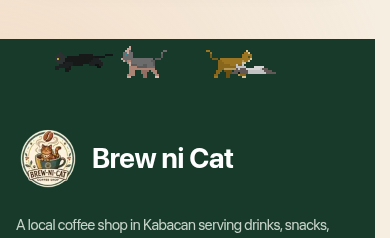
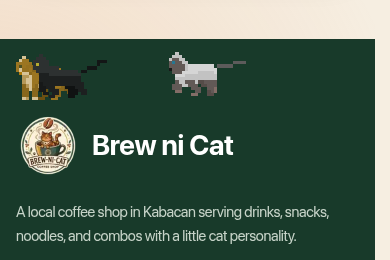
feat(cats): bigger cats that rest more, filling the strip down to the footer text (FR-099)

diff --git a/src/lib/cats/cats.ts b/src/lib/cats/cats.ts
@@ -50,21 +50,21 @@ const clamp01 = (r: number) => Math.min(Math.max(r, 0), 0.999_999);
 /** The most cats in the strip at once; the six coats repeat. */
 export const MAX_CATS = 16;
 
-/** One cat for about every 100 pixels of width: 4 on a phone, 14 on a desktop. */
+/** One cat for about every 120 pixels of width: 3 on a phone, 12 on a desktop. */
 export function catCount(width: number): number {
-  return Math.min(MAX_CATS, Math.max(4, Math.round(width / 100)));
+  return Math.min(MAX_CATS, Math.max(3, Math.round(width / 120)));
 }
 
 export type CatRest = Readonly<{ action: CatAction; ms: number }>;
 
 const RESTS: readonly (readonly [CatAction, number, number])[] = [
-  ["idle", 3_000, 6_000],
-  ["sitting", 4_000, 9_000],
-  ["licking", 2_700, 4_500],
-  ["meow", 1_400, 1_400],
+  ["idle", 4_000, 8_000],
+  ["sitting", 6_000, 14_000],
+  ["licking", 3_600, 7_200],
+  ["meow", 1_400, 2_800],
   ["stretching", 1_700, 1_700],
   ["laying", 1_100, 1_100],
-  ["itch", 1_200, 2_000],
+  ["itch", 1_200, 2_400],
 ];
 
 /** What a cat does after a walk, and for how long, from two random numbers. */
@@ -89,8 +89,9 @@ export function afterRest(action: CatAction, length: number): CatRest | null {
 }
 
 /**
- * Where the next walk ends: somewhere in the strip at least two cat sizes
- * away, so every walk is worth watching. `size` is the cat's frame in pixels.
+ * Where the next walk ends: one to three cat sizes away, left or right, and
+ * inside the strip. Short walks leave the cats more time to sit, wash, meow
+ * or nap. `size` is the cat's frame in pixels.
  */
 export function nextTarget(
   random: number,
@@ -100,10 +101,10 @@ export function nextTarget(
 ): number {
   const min = -0.2 * size;
   const max = Math.max(min, width - 0.8 * size);
-  let target = min + clamp01(random) * (max - min);
-  if (Math.abs(target - x) < 2 * size) {
-    target = x + (target >= x ? 2 : -2) * size;
-    if (target > max || target < min) target = x - (target - x);
-  }
+  const r = clamp01(random);
+  const dir = r < 0.5 ? -1 : 1;
+  const steps = 1 + (r < 0.5 ? r * 2 : (r - 0.5) * 2) * 2;
+  let target = x + dir * steps * size;
+  if (target > max || target < min) target = x - dir * steps * size;
   return Math.min(max, Math.max(min, target));
 }

diff --git a/tests/unit/cat-characters.test.tsx b/tests/unit/cat-characters.test.tsx
@@ -59,10 +59,10 @@ afterEach(() => {
 describe("cat characters (FR-099)", () => {
   // Update 2026-11-10: the drawn poster cats were replaced by the six pixel
   // cats of the CC0 "Pet Cats Pack"; this case now covers their behavior.
-  it("TC-P9-001 six pixel cat coats, 4 cats on a phone and 14 on a desktop, rest in turn and nap after lying down", () => {
+  it("TC-P9-001 six pixel cat coats, 3 cats on a phone and 12 on a desktop, rest in turn and nap after lying down", () => {
     expect(PIXEL_CATS).toHaveLength(6);
-    expect(catCount(390)).toBe(4);
-    expect(catCount(1440)).toBe(14);
+    expect(catCount(390)).toBe(3);
+    expect(catCount(1440)).toBe(12);
     expect(catCount(4000)).toBe(16);
     expect(catSheetUrl("cat-2", "walk")).toBe("/cats/cat-2/walk.png");
     expect(CAT_SHEETS.walk.frames).toBe(8);
@@ -74,10 +74,11 @@ describe("cat characters (FR-099)", () => {
     expect(nextRest(0.999, 0, true).action).toBe("itch");
     expect(afterRest("laying", 0)?.action).toBe("sleeping");
     expect(afterRest("idle", 0)).toBeNull();
-    // every walk goes at least two cat sizes and stays in the strip
+    // every walk goes one to three cat sizes and stays in the strip
     for (const r of [0, 0.3, 0.5, 0.99]) {
       const target = nextTarget(r, 500, 1440, 150);
-      expect(Math.abs(target - 500)).toBeGreaterThanOrEqual(300);
+      expect(Math.abs(target - 500)).toBeGreaterThanOrEqual(150);
+      expect(Math.abs(target - 500)).toBeLessThanOrEqual(450);
       expect(target).toBeGreaterThanOrEqual(-30);
       expect(target).toBeLessThanOrEqual(1440 - 120);
     }

diff --git a/tests/e2e/cats.spec.ts b/tests/e2e/cats.spec.ts
@@ -18,6 +18,12 @@ async function overlapsWithStrip(page: Page): Promise<string[]> {
       "a, button, input, select, textarea, p, h1, h2, h3, li, label",
     )) {
       if (strip.contains(el)) continue;
+      // skip hidden layers such as the page-transition curtain
+      if (el.closest('[aria-hidden="true"]')) continue;
+      if (
+        !el.checkVisibility({ opacityProperty: true, visibilityProperty: true })
+      )
+        continue;
       const r = el.getBoundingClientRect();
       if (r.width === 0 || r.height === 0) continue;
       const overlap =
@@ -52,7 +58,7 @@ for (const size of [
     // Update 2026-11-10: the pixel cats (CC0 "Pet Cats Pack") wander on
     // their own; within a few seconds at least one has moved or changed
     // what it is doing. Their frames are a CSS animation in real time.
-    const count = size.name === "phone" ? 4 : 14;
+    const count = size.name === "phone" ? 3 : 12;
     const cats = strip.locator(".pixel-cat:not([hidden])");
     await expect(cats).toHaveCount(count);
     const sheet = await page.request.get("/cats/cat-1/walk.png");
@@ -100,7 +106,7 @@ test("TC-P9-006 — with reduced motion the cats sit still", async ({ page }) =>
   const strip = page.getByTestId("cat-strip");
   await strip.scrollIntoViewIfNeeded();
   const cats = strip.locator(".pixel-cat:not([hidden])");
-  await expect(cats).toHaveCount(14);
+  await expect(cats).toHaveCount(12);
   const state = () =>
     cats.evaluateAll((nodes) =>
       nodes

diff --git a/src/app/globals.css b/src/app/globals.css
@@ -2347,7 +2347,7 @@ html[data-motion="on"]:not([data-motion-live])
    taps, so nothing under it is ever covered. Each sheet is one row of square
    frames; the cat stands on row 32 of 50, so the strip shows rows 14 to 32. */
 .cat-strip {
-  --cat-size: 100px;
+  --cat-size: 160px;
   position: relative;
   height: calc(var(--cat-size) * 0.38);
   overflow: hidden;
@@ -2356,7 +2356,7 @@ html[data-motion="on"]:not([data-motion-live])
 }
 @media (min-width: 640px) {
   .cat-strip {
-    --cat-size: 150px;
+    --cat-size: 260px;
   }
 }
 .pixel-cat {

diff --git a/src/components/layout/site-footer.tsx b/src/components/layout/site-footer.tsx
@@ -47,7 +47,7 @@ export function SiteFooter({ content }: SiteFooterProps) {
       <CatStrip />
       <Container
         data-rise-group=""
-        className="grid gap-10 py-12 sm:grid-cols-2 lg:grid-cols-[1.25fr_0.7fr_1.1fr_0.8fr] lg:gap-12 lg:py-16"
+        className="grid gap-10 pt-3 pb-12 sm:grid-cols-2 lg:grid-cols-[1.25fr_0.7fr_1.1fr_0.8fr] lg:gap-12 lg:pt-4 lg:pb-16"
       >
         <div>
           <Link

diff --git a/docs/functional-requirements.md b/docs/functional-requirements.md
@@ -225,7 +225,7 @@ FR-100 to FR-110 were added after FR-099 and extend §9 (FR-058 to FR-064). On 2
 | Existing POS contract/source of truth | FR-071–FR-081 | Phase 2 inspected catalog source structures only; full synchronization contract, mutation authority, and Phase 6 approval remain pending. |
 | Daily cash count at closing | FR-097 | **TODO: Confirm with Brew ni Cat owner.** Whether staff count the drawer at every closing, and who may correct a saved count. Superseded on 2026-11-05: FR-097 is not planned, so these questions no longer need an answer. |
 | Ratings and reviews | FR-098 | The owner asked for ratings and reviews on the website on 2026-10-30. **TODO: Confirm with Brew ni Cat owner.** Still to confirm: reviews of the whole shop or of each item; whether only signed-in customers may post; whether the owner approves a review before it shows; and whether the owner can reply. |
-| Cat characters | FR-099 | The owner asked for cat characters on the website on 2026-10-30. He will take photos of the shop's cats, and they will be edited into cutouts. Waiting on the photos. **TODO: Confirm with Brew ni Cat owner.** Which pages show them. Update 2026-11-10: built from the shop poster (Kasper, Latte, Luna, Kulas) as drawn cats with a walk cycle, in an empty strip at the top of the footer on every page. Update 2026-11-10: the drawn cats did not look real enough, so they were replaced by the six pixel cats of the CC0 "Pet Cats Pack" (`public/cats`, license in `public/cats/LICENSE.txt`). Four to sixteen cats (the six coats repeat) wander the same footer strip: they walk or run, then sit, wash, meow, stretch, scratch or lie down for a nap. With reduced motion they sit still. |
+| Cat characters | FR-099 | The owner asked for cat characters on the website on 2026-10-30. He will take photos of the shop's cats, and they will be edited into cutouts. Waiting on the photos. **TODO: Confirm with Brew ni Cat owner.** Which pages show them. Update 2026-11-10: built from the shop poster (Kasper, Latte, Luna, Kulas) as drawn cats with a walk cycle, in an empty strip at the top of the footer on every page. Update 2026-11-10: the drawn cats did not look real enough, so they were replaced by the six pixel cats of the CC0 "Pet Cats Pack" (`public/cats`, license in `public/cats/LICENSE.txt`). Three to sixteen large cats (the six coats repeat) wander the same footer strip: they walk or run, then sit, wash, meow, stretch, scratch or lie down for a nap. With reduced motion they sit still. |
 | Messenger ordering rules | FR-100–FR-110 | **TODO: Confirm with Brew ni Cat owner.** The team built ordering and order status inside Messenger on 2026-11-10 (ADR-029). Still to decide: whether the assistant should refuse or only warn about orders outside the shop hours, and a switch for closure days; whether a status change should be pushed to the chat by itself (Meta limits this to 24 hours after the customer's last message); and whether Messenger orders should move to a table of their own, which needs a POS update. |
 
 ## 13. Traceability rule

diff --git a/docs/test-cases.md b/docs/test-cases.md
@@ -1197,11 +1197,11 @@ Update 2026-11-10: the drawn poster cats were replaced by the six pixel cats of 
 
 | ID | Requirement | Area | Updated check | Expected result |
 |---|---|---|---|---|
-| TC-P9-001 | FR-099 | `src/lib/cats/cats.ts` | `catCount`, `nextRest`, `afterRest`, `nextTarget` | 4 cats at 390 px and 14 at 1440 px (up to 16; the six coats repeat); cat 3 never scratches; a cat that lies down goes to sleep; every walk goes at least two cat sizes and stays in the strip |
+| TC-P9-001 | FR-099 | `src/lib/cats/cats.ts` | `catCount`, `nextRest`, `afterRest`, `nextTarget` | 3 cats at 390 px and 12 at 1440 px (up to 16; the six coats repeat); cat 3 never scratches; a cat that lies down goes to sleep; every walk goes one to three cat sizes and stays in the strip |
 | TC-P9-002 | FR-099, NFR-035 | `CatStrip` | Render with reduced motion off and step animation frames by hand | The strip is aria-hidden, and after the frames at least one cat has moved or changed what it does |
 | TC-P9-003 | FR-099 | `CatStrip` | `document.hidden` true, step 30 frames | No cat moves or changes |
 | TC-P9-004 | FR-099, NFR-032 | `CatStrip` | `prefers-reduced-motion: reduce` | Every shown cat sits, and no animation frame is requested |
-| TC-P9-005 | FR-099 | Footer strip (Playwright, 390 and 1440 wide) | `/about`, reduced motion off | 4 or 14 cats; the sprite sheet loads (200); a cat moves within 15 seconds; no link, button or text overlaps the strip; evidence `pixel-cats-{phone-390,desktop-1440}.png` |
-| TC-P9-006 | FR-099, NFR-032 | Footer strip (Playwright) | `/about`, reduced motion on, 1440 wide | 14 cats, none walking, and nothing changes in 3 seconds; evidence `pixel-cats-sitting-reduced-motion-1440.png` |
+| TC-P9-005 | FR-099 | Footer strip (Playwright, 390 and 1440 wide) | `/about`, reduced motion off | 3 or 12 cats; the sprite sheet loads (200); a cat moves within 15 seconds; no link, button or text overlaps the strip; evidence `pixel-cats-{phone-390,desktop-1440}.png` |
+| TC-P9-006 | FR-099, NFR-032 | Footer strip (Playwright) | `/about`, reduced motion on, 1440 wide | 12 cats, none walking, and nothing changes in 3 seconds; evidence `pixel-cats-sitting-reduced-motion-1440.png` |
 
 The first screenshots of the drawn cats stay in `docs/evidence/phase-9/cat-characters/` as the record of the first version.

diff --git a/docs/development-log.md b/docs/development-log.md
@@ -1675,7 +1675,7 @@ This log records completed work and observed evidence. Planned work is explicitl
 
 - **Phase:** Phase 9.
 - **Task:** The drawn cats did not look real enough, and we wanted many cats, like the walking pets in VS Code Pets.
-- **Summary:** The footer strip now has the six pixel cats of the CC0 "Pet Cats Pack". Four cats show on a phone and fourteen on a desktop (up to 16; the six coats repeat). Each one walks or runs somewhere, then sits, washes, meows, stretches, scratches, or lies down and sleeps, and walks on. The frames are a CSS sprite animation; one animation-frame loop moves the cats, and it stops while the tab is hidden or the strip is off screen. With reduced motion the cats sit still. The VS Code Pets art and two other downloaded packs were left out: their licenses don't let us put them in a public repo.
+- **Summary:** The footer strip now has the six pixel cats of the CC0 "Pet Cats Pack". Three cats show on a phone and twelve on a desktop (up to 16; the six coats repeat). The cats are big enough that the strip reaches down to the footer text, and the walks are short so the cats spend most of their time sitting, washing, meowing, stretching or napping. Each one walks or runs somewhere, then sits, washes, meows, stretches, scratches, or lies down and sleeps, and walks on. The frames are a CSS sprite animation; one animation-frame loop moves the cats, and it stops while the tab is hidden or the strip is off screen. With reduced motion the cats sit still. The VS Code Pets art and two other downloaded packs were left out: their licenses don't let us put them in a public repo.
 - **Files:** `public/cats/**` (sprites and `LICENSE.txt`), `src/lib/cats/cats.ts`, `src/components/cats/cat-strip.tsx` (the SVG `cat-figure.tsx` is removed), `src/app/globals.css`, `tests/unit/cat-characters.test.tsx`, `tests/e2e/cats.spec.ts`, docs.
 - **Testing:** the full Vitest suite and Playwright `cats.spec.ts` (3 passed); see the PR.
 - **Branch / PR:** `feat/cat-characters`.
